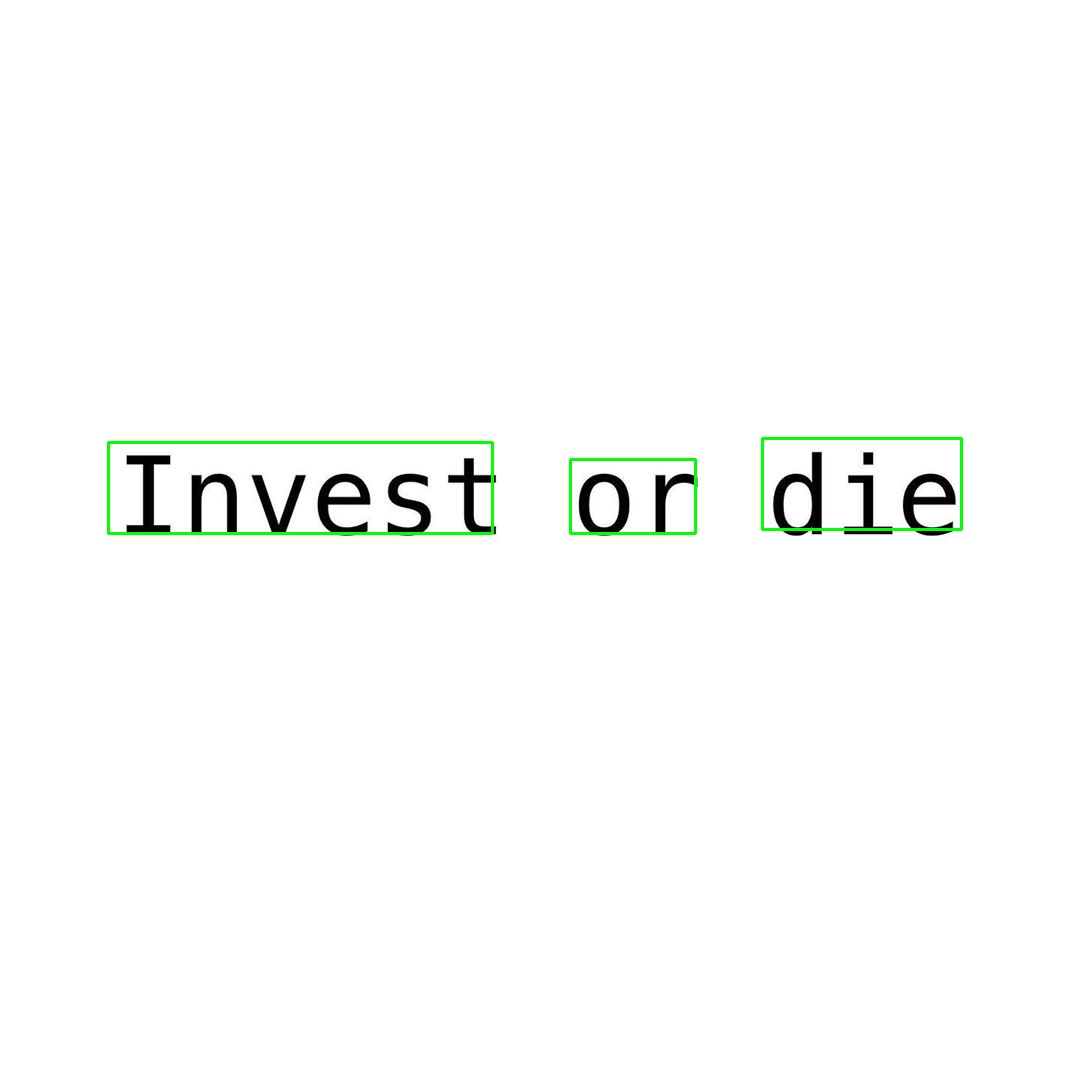
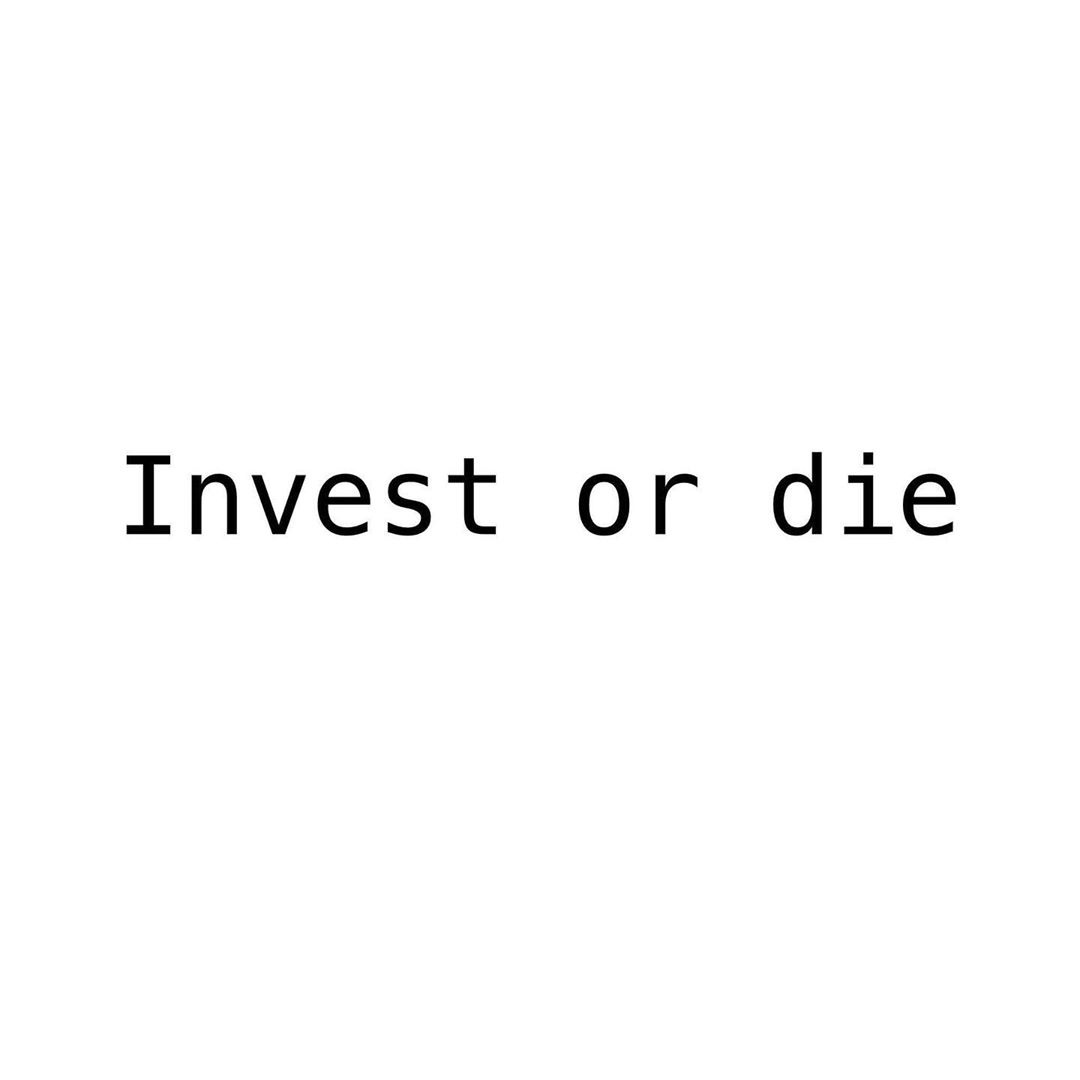
More accurate text detection model

diff --git a/TextDetection/text_detection.py b/TextDetection/text_detection.py
@@ -121,17 +121,20 @@ for y in range(0, numRows):
 # boxes
 boxes = non_max_suppression(np.array(rects), probs=confidences)
 
-# loop over the bounding boxes
-for (startX, startY, endX, endY) in boxes:
-	# scale the bounding box coordinates based on the respective
-	# ratios
-	startX = int(startX * rW)
-	startY = int(startY * rH)
-	endX = int(endX * rW)
-	endY = int(endY * rH)
+# Only count if more than 3 words
+if len(boxes) > 3:
 
-	# draw the bounding box on the image
-	cv2.rectangle(orig, (startX, startY), (endX, endY), (0, 255, 0), 2)
+	# loop over the bounding boxes
+	for (startX, startY, endX, endY) in boxes:
+		# scale the bounding box coordinates based on the respective
+		# ratios
+		startX = int(startX * rW)
+		startY = int(startY * rH)
+		endX = int(endX * rW)
+		endY = int(endY * rH)
+
+		# draw the bounding box on the image
+		cv2.rectangle(orig, (startX, startY), (endX, endY), (0, 255, 0), 2)
 
 # show the output image
 # cv2.imshow("Text Detection", orig)
